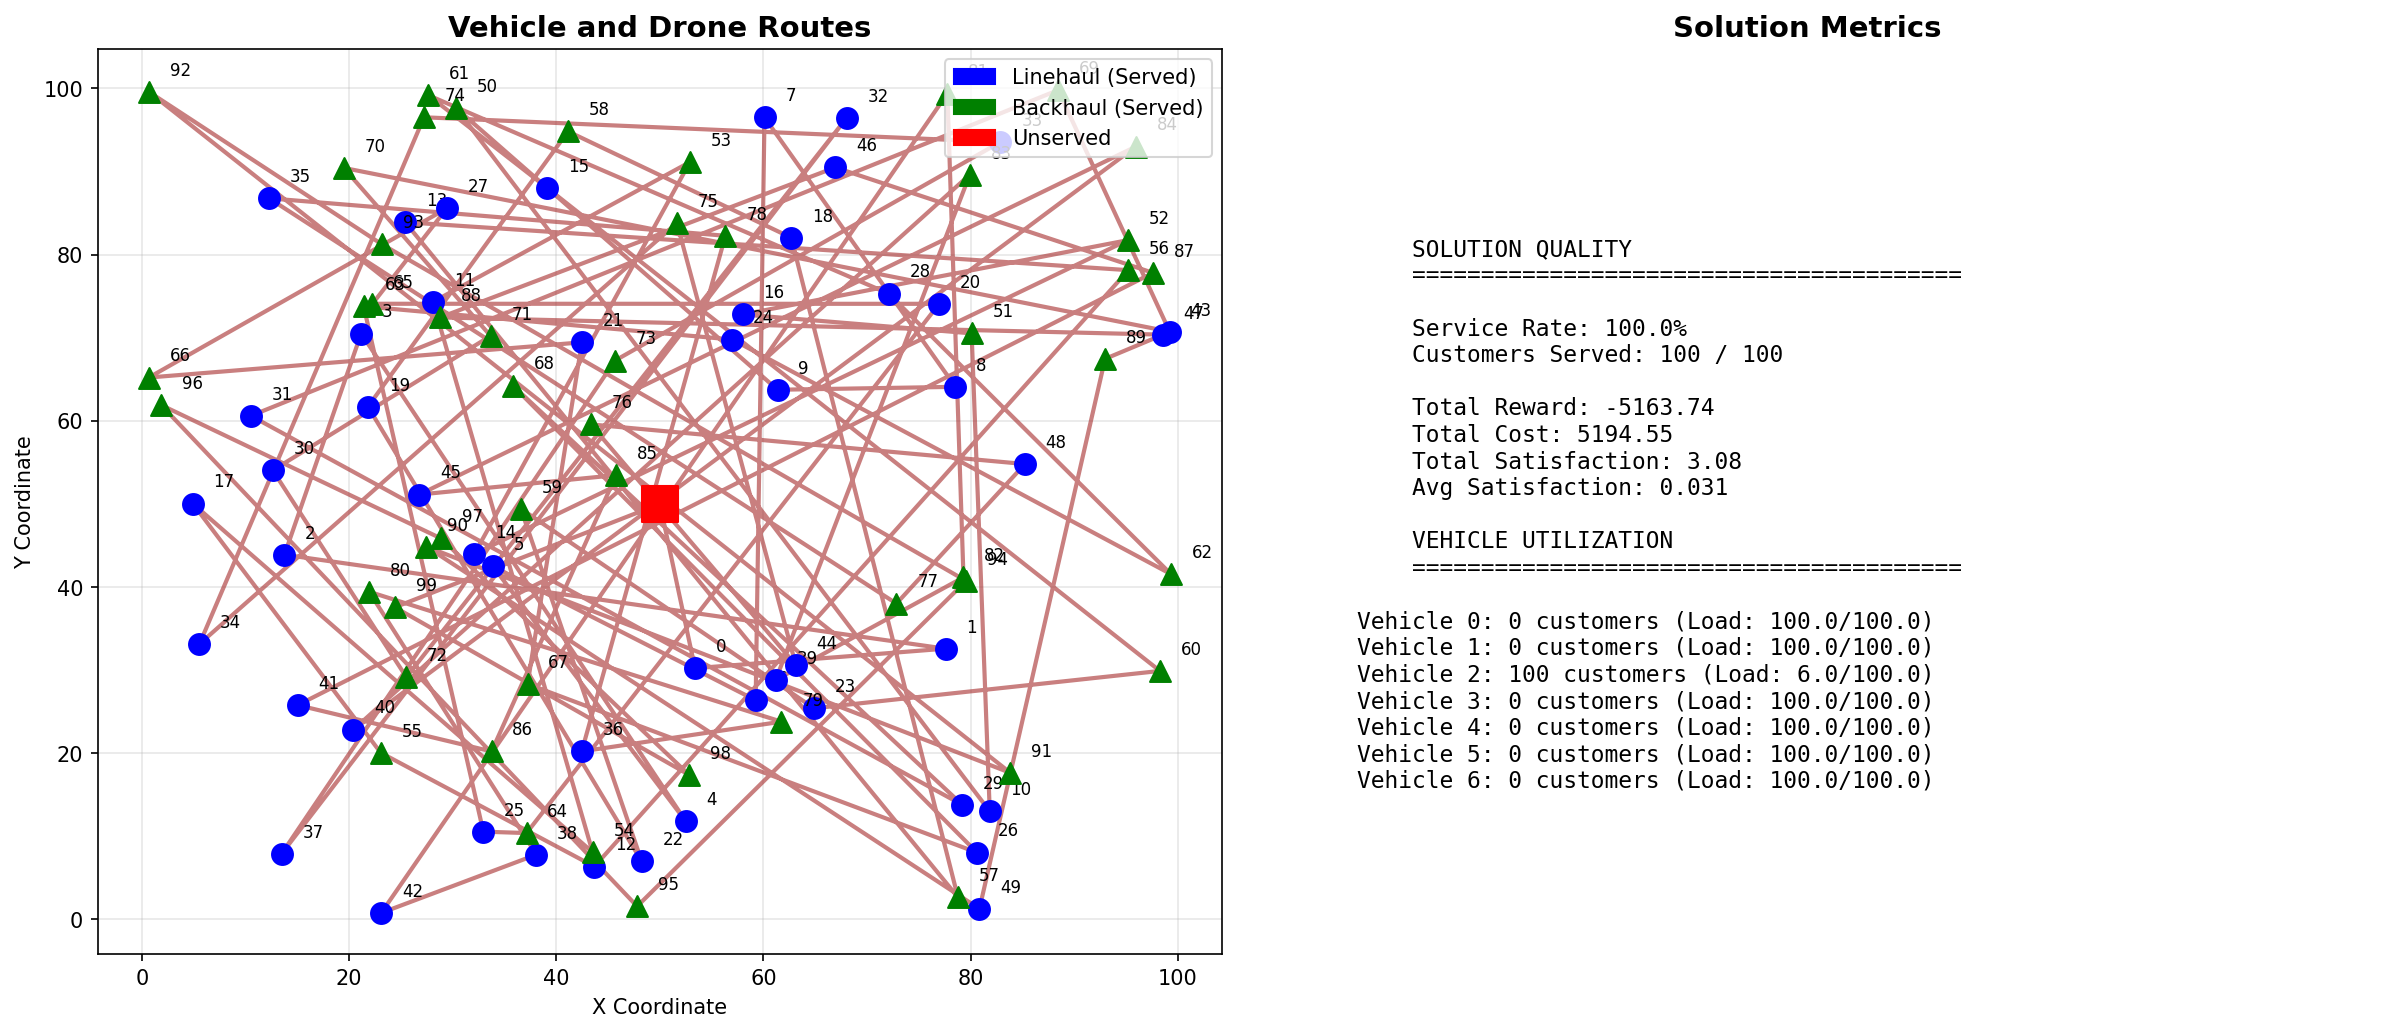
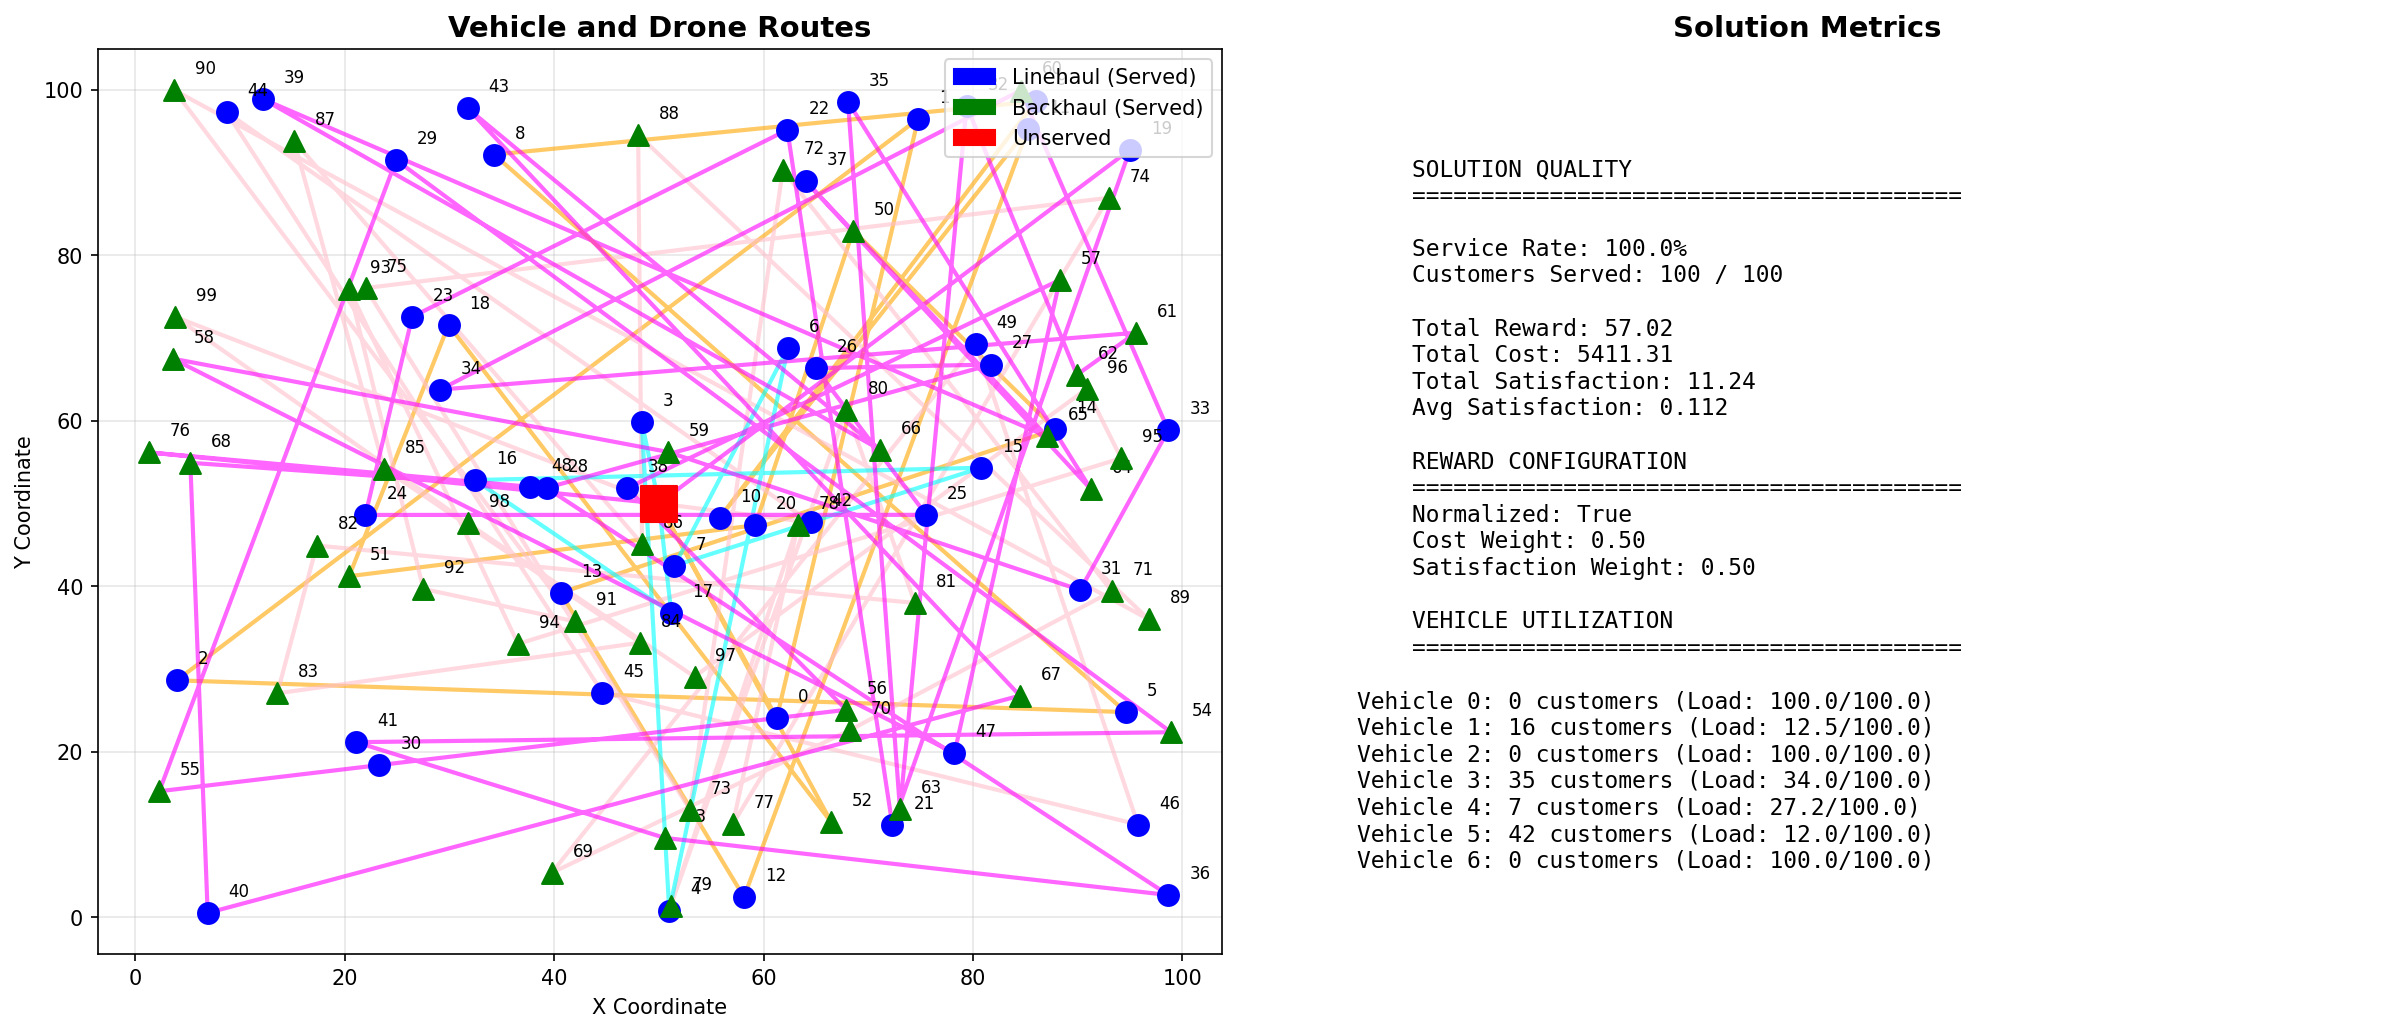
change: normalize the scalarized objective/reward

diff --git a/base/main.py b/base/main.py
@@ -14,12 +14,23 @@ def train_hrl_agent(
     batch_size: int = 32,
     eval_interval: int = 50,
     save_path: str = "hrl_checkpoint.pt",
+    # NEW: Reward normalization parameters
+    normalize_rewards: bool = True,
+    cost_weight: float = 0.5,
+    satisfaction_weight: float = 0.5,
 ):
     """
-    Main training loop with improved monitoring
+    Main training loop with improved monitoring and normalized rewards
     """
-    # Create environment and agent
-    env = VehicleDroneRoutingEnv(num_customers=100, num_vehicles=7, num_drones=7)
+    # Create environment with normalized rewards
+    env = VehicleDroneRoutingEnv(
+        num_customers=100,
+        num_vehicles=7,
+        num_drones=7,
+        normalize_rewards=normalize_rewards,
+        cost_weight=cost_weight,
+        satisfaction_weight=satisfaction_weight,
+    )
 
     agent = HierarchicalAgent(env)
 
@@ -33,6 +44,11 @@ def train_hrl_agent(
     print(
         f"Environment: {env.num_customers} customers, {env.num_vehicles} vehicles, {env.num_drones} drones"
     )
+    print(f"Reward Normalization: {normalize_rewards}")
+    if normalize_rewards:
+        print(f"  Cost Weight: {cost_weight:.2f}")
+        print(f"  Satisfaction Weight: {satisfaction_weight:.2f}")
+        print(f"  Max Possible Cost: {env.max_possible_cost:.2f}")
     print("=" * 80)
 
     for episode in range(num_episodes):
@@ -135,6 +151,85 @@ def train_hrl_agent(
         "satisfactions": episode_satisfactions,
         "service_rates": service_rates,
     }
+
+
+def train_pareto_front(num_episodes: int = 500, batch_size: int = 32):
+    """
+    Train multiple agents with different cost/satisfaction weights
+    to explore the Pareto front
+    """
+    weight_configs = [
+        {"cost_weight": 0.9, "satisfaction_weight": 0.1, "name": "Cost-Prioritized"},
+        {"cost_weight": 0.7, "satisfaction_weight": 0.3, "name": "Cost-Focused"},
+        {"cost_weight": 0.5, "satisfaction_weight": 0.5, "name": "Balanced"},
+        {
+            "cost_weight": 0.3,
+            "satisfaction_weight": 0.7,
+            "name": "Satisfaction-Focused",
+        },
+        {
+            "cost_weight": 0.1,
+            "satisfaction_weight": 0.9,
+            "name": "Satisfaction-Prioritized",
+        },
+    ]
+
+    results = []
+
+    print("=" * 80)
+    print("PARETO FRONT EXPLORATION")
+    print("=" * 80)
+
+    for config in weight_configs:
+        print(f"\n{'=' * 80}")
+        print(f"Training: {config['name']}")
+        print(
+            f"Cost Weight: {config['cost_weight']:.1f}, Satisfaction Weight: {config['satisfaction_weight']:.1f}"
+        )
+        print(f"{'=' * 80}\n")
+
+        agent, history = train_hrl_agent(
+            num_episodes=num_episodes,
+            batch_size=batch_size,
+            eval_interval=100,
+            save_path=f"pareto_{config['name'].lower().replace('-', '_')}.pt",
+            normalize_rewards=True,
+            cost_weight=config["cost_weight"],
+            satisfaction_weight=config["satisfaction_weight"],
+        )
+
+        # Final evaluation
+        stats, _ = evaluate_agent(agent, num_episodes=50)
+
+        results.append(
+            {
+                "name": config["name"],
+                "weights": (config["cost_weight"], config["satisfaction_weight"]),
+                "mean_cost": stats["mean_cost"],
+                "mean_satisfaction": stats["mean_satisfaction"],
+                "mean_service_rate": stats["mean_service_rate"],
+            }
+        )
+
+    # Print Pareto front summary
+    print("\n" + "=" * 80)
+    print("PARETO FRONT SUMMARY")
+    print("=" * 80)
+    print(
+        f"{'Configuration':<30} {'Cost Weight':<12} {'Sat Weight':<12} {'Avg Cost':<12} {'Avg Sat':<12} {'Service %':<10}"
+    )
+    print("-" * 80)
+    for result in results:
+        print(
+            f"{result['name']:<30} "
+            f"{result['weights'][0]:<12.2f} "
+            f"{result['weights'][1]:<12.2f} "
+            f"{result['mean_cost']:<12.2f} "
+            f"{result['mean_satisfaction']:<12.2f} "
+            f"{result['mean_service_rate'] * 100:<10.1f}"
+        )
+
+    return results
 
 
 def evaluate_agent(
@@ -277,6 +372,12 @@ def visualize_solution(agent: HierarchicalAgent):
     Total Satisfaction: {result["total_satisfaction"]:.2f}
     Avg Satisfaction: {result["total_satisfaction"] / max(1, result["customers_served"]):.3f}
     
+    REWARD CONFIGURATION
+    {"=" * 40}
+    Normalized: {agent.env.normalize_rewards}
+    Cost Weight: {agent.env.cost_weight:.2f}
+    Satisfaction Weight: {agent.env.satisfaction_weight:.2f}
+    
     VEHICLE UTILIZATION
     {"=" * 40}
     """
@@ -312,40 +413,52 @@ if __name__ == "__main__":
 
     print("=" * 80)
     print("HIERARCHICAL RL FOR VEHICLE-DRONE ROUTING WITH BACKHAULS")
+    print("WITH NORMALIZED MULTI-OBJECTIVE REWARDS")
     print("=" * 80)
     print()
 
-    # Train agent
-    agent, training_history = train_hrl_agent(
-        num_episodes=500,
-        batch_size=32,
-        eval_interval=50,
-        save_path="hrl_vdrpb_checkpoint.pt",
-    )
+    # Choose training mode
+    mode = "single"  # Options: "single" or "pareto"
 
-    print("\n" + "=" * 80)
-    print("FINAL EVALUATION")
-    print("=" * 80)
+    if mode == "single":
+        # Train single agent with balanced weights
+        agent, training_history = train_hrl_agent(
+            num_episodes=500,
+            batch_size=32,
+            eval_interval=50,
+            save_path="hrl_vdrpb_checkpoint.pt",
+            normalize_rewards=True,
+            cost_weight=0.5,
+            satisfaction_weight=0.5,
+        )
 
-    # Final evaluation
-    stats, results = evaluate_agent(agent, num_episodes=100)
+        print("\n" + "=" * 80)
+        print("FINAL EVALUATION")
+        print("=" * 80)
 
-    print("\nFinal Performance Statistics:")
-    print(
-        f"  Service Rate: {stats['mean_service_rate'] * 100:.1f}% ± {stats['std_service_rate'] * 100:.1f}%"
-    )
-    print(f"  Mean Reward: {stats['mean_reward']:.2f} ± {stats['std_reward']:.2f}")
-    print(f"  Mean Cost: {stats['mean_cost']:.2f} ± {stats['std_cost']:.2f}")
-    print(
-        f"  Mean Satisfaction: {stats['mean_satisfaction']:.2f} ± {stats['std_satisfaction']:.2f}"
-    )
-    print(
-        f"  Avg Customers Served: {stats['avg_served']:.1f} / {agent.env.num_customers}"
-    )
+        # Final evaluation
+        stats, results = evaluate_agent(agent, num_episodes=100)
 
-    # Visualize a solution
-    print("\nGenerating visualization...")
-    visualize_solution(agent)
+        print("\nFinal Performance Statistics:")
+        print(
+            f"  Service Rate: {stats['mean_service_rate'] * 100:.1f}% ± {stats['std_service_rate'] * 100:.1f}%"
+        )
+        print(f"  Mean Reward: {stats['mean_reward']:.2f} ± {stats['std_reward']:.2f}")
+        print(f"  Mean Cost: {stats['mean_cost']:.2f} ± {stats['std_cost']:.2f}")
+        print(
+            f"  Mean Satisfaction: {stats['mean_satisfaction']:.2f} ± {stats['std_satisfaction']:.2f}"
+        )
+        print(
+            f"  Avg Customers Served: {stats['avg_served']:.1f} / {agent.env.num_customers}"
+        )
+
+        # Visualize a solution
+        print("\nGenerating visualization...")
+        visualize_solution(agent)
+
+    elif mode == "pareto":
+        # Explore Pareto front with different weight configurations
+        pareto_results = train_pareto_front(num_episodes=500, batch_size=32)
 
     print("\n" + "=" * 80)
     print("TRAINING COMPLETE!")

diff --git a/base/environment.py b/base/environment.py
@@ -21,6 +21,10 @@ class VehicleDroneRoutingEnv(gym.Env):
         drone_capacity: float = 10.0,
         drone_battery: float = 100.0,
         map_size: float = 100.0,
+        # NEW: Reward normalization parameters
+        normalize_rewards: bool = True,
+        cost_weight: float = 0.5,
+        satisfaction_weight: float = 0.5,
     ):
         super().__init__()
 
@@ -31,6 +35,16 @@ class VehicleDroneRoutingEnv(gym.Env):
         self.drone_capacity = drone_capacity
         self.drone_battery = drone_battery
         self.map_size = map_size
+
+        # Reward configuration
+        self.normalize_rewards = normalize_rewards
+        self.cost_weight = cost_weight
+        self.satisfaction_weight = satisfaction_weight
+
+        # Calculate normalization bounds
+        self.max_possible_cost = self._estimate_max_cost()
+        self.max_satisfaction_per_customer = 1.0
+        self.max_unserved_penalty_per_customer = 200.0
 
         # Depot location
         self.depot = (map_size / 2, map_size / 2)
@@ -54,6 +68,20 @@ class VehicleDroneRoutingEnv(gym.Env):
             low=0, high=1, shape=(self._get_state_dim(),), dtype=np.float32
         )
 
+    def _estimate_max_cost(self) -> float:
+        """
+        Estimate maximum possible cost for normalization
+        Conservative upper bound based on worst-case routing
+        """
+        # Diagonal distance of map (worst case single trip)
+        diagonal = np.sqrt(2) * self.map_size
+
+        # Worst case: each vehicle visits all customers with returns
+        # This is highly conservative but ensures we don't exceed bounds
+        max_cost = diagonal * self.num_customers * 2
+
+        return max_cost
+
     def _get_state_dim(self) -> int:
         """Calculate state dimension"""
         customer_features = 7
@@ -67,6 +95,44 @@ class VehicleDroneRoutingEnv(gym.Env):
             + 2
         )
         return state_dim
+
+    def _calculate_reward(
+        self, cost: float, satisfaction: float, unserved_penalty: float = 0.0
+    ) -> float:
+        """
+        Calculate properly normalized multi-objective reward
+
+        Args:
+            cost: Travel cost (distance)
+            satisfaction: Time window satisfaction score [0, 1]
+            unserved_penalty: Additional penalty for unserved customers
+
+        Returns:
+            Normalized reward in approximately [-1, 1] range
+        """
+        if not self.normalize_rewards:
+            # Legacy behavior for backward compatibility
+            return -cost + 10.0 * satisfaction - unserved_penalty
+
+        # Normalize cost to [0, 1] where 0 = worst (max cost), 1 = best (zero cost)
+        normalized_cost = 1.0 - min(cost / self.max_possible_cost, 1.0)
+
+        # Satisfaction already in [0, 1]
+        normalized_satisfaction = satisfaction
+
+        # Normalize unserved penalty
+        max_total_penalty = self.max_unserved_penalty_per_customer * self.num_customers
+        normalized_penalty = min(unserved_penalty / max_total_penalty, 1.0)
+
+        # Weighted combination
+        # Both objectives in [0, 1], weights sum to 1.0
+        reward = (
+            self.cost_weight * normalized_cost
+            + self.satisfaction_weight * normalized_satisfaction
+            - normalized_penalty  # Penalty reduces reward
+        )
+
+        return reward
 
     def reset(
         self, *, seed: int | None = None, options: dict | None = None
@@ -97,7 +163,7 @@ class VehicleDroneRoutingEnv(gym.Env):
                     id=i,
                     x=np.random.uniform(0, self.map_size),
                     y=np.random.uniform(0, self.map_size),
-                    demand=np.random.uniform(5, 15),  # Reduced max demand
+                    demand=np.random.uniform(5, 15),
                     time_window_start=np.random.uniform(0, 100),
                     time_window_end=np.random.uniform(100, 200),
                     customer_type=customer_type,
@@ -218,20 +284,27 @@ class VehicleDroneRoutingEnv(gym.Env):
             truncated = result[3]
 
             # Add penalty for unserved customers if terminating
-            reward = result[1]
+            state, reward, _, _, info = result
             if terminated or truncated:
                 unserved_count = self.num_customers - len(self.served_customers)
                 if unserved_count > 0:
-                    reward -= 200.0 * unserved_count  # HEAVY PENALTY
+                    unserved_penalty = (
+                        self.max_unserved_penalty_per_customer * unserved_count
+                    )
+                    # Recalculate reward with penalty
+                    reward = self._calculate_reward(info["cost"], 0.0, unserved_penalty)
 
-            return result[0], reward, terminated, truncated, result[4]
+            return state, reward, terminated, truncated, info
 
         customer = self.customers[customer_id]
 
         # Validate action
         error = self._validate_action(vehicle, customer, use_drone, drone_id)
         if error:
-            return self._get_state(), -100.0, False, False, {"error": error}
+            # Invalid action penalty
+            invalid_penalty = 100.0
+            reward = self._calculate_reward(0.0, 0.0, invalid_penalty)
+            return self._get_state(), reward, False, False, {"error": error}
 
         # Execute action
         if use_drone and drone_id is not None:
@@ -287,7 +360,9 @@ class VehicleDroneRoutingEnv(gym.Env):
         vehicle.current_load = 0.0
 
         self.total_cost += cost
-        reward = -cost
+
+        # Use normalized reward calculation
+        reward = self._calculate_reward(cost, 0.0, 0.0)
 
         terminated = len(self.served_customers) == self.num_customers
         truncated = False
@@ -331,7 +406,8 @@ class VehicleDroneRoutingEnv(gym.Env):
         self.total_cost += cost
         self.total_satisfaction += satisfaction
 
-        reward = -cost + 10.0 * satisfaction
+        # Use normalized reward calculation
+        reward = self._calculate_reward(cost, satisfaction, 0.0)
 
         terminated = len(self.served_customers) == self.num_customers
         truncated = False
@@ -376,9 +452,12 @@ class VehicleDroneRoutingEnv(gym.Env):
 
         battery_cost = total_distance * 0.5
         if battery_cost > drone.current_battery:
+            # Battery insufficient penalty
+            battery_penalty = 50.0
+            reward = self._calculate_reward(0.0, 0.0, battery_penalty)
             return (
                 self._get_state(),
-                -50.0,
+                reward,
                 False,
                 False,
                 {"error": "insufficient_battery"},
@@ -409,7 +488,8 @@ class VehicleDroneRoutingEnv(gym.Env):
         self.total_cost += cost
         self.total_satisfaction += satisfaction
 
-        reward = -cost + 10.0 * satisfaction
+        # Use normalized reward calculation
+        reward = self._calculate_reward(cost, satisfaction, 0.0)
 
         terminated = len(self.served_customers) == self.num_customers
         truncated = False
